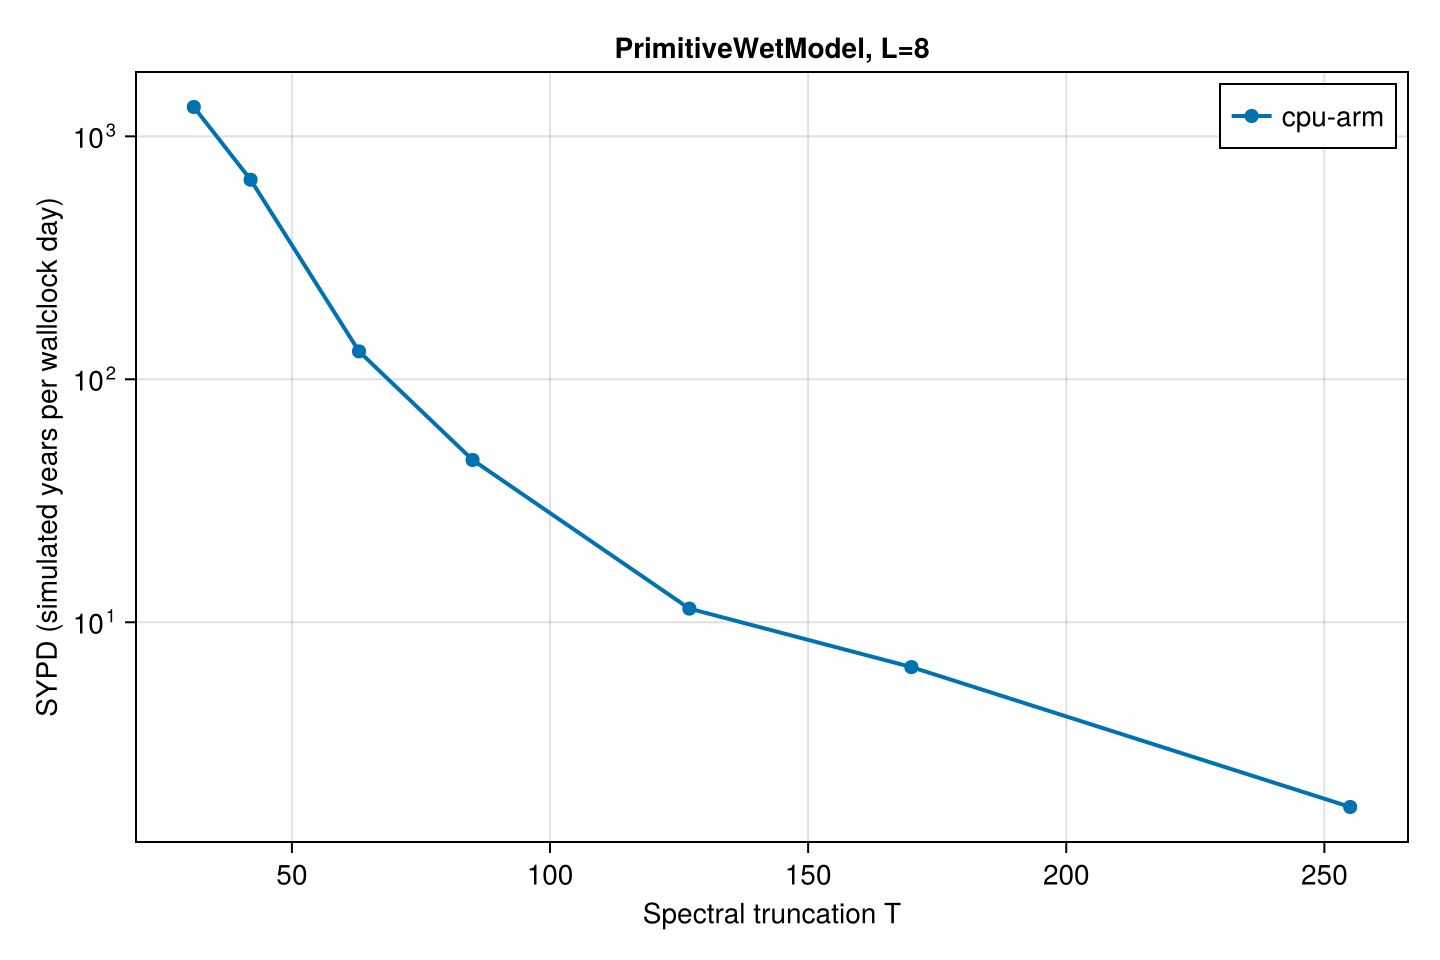
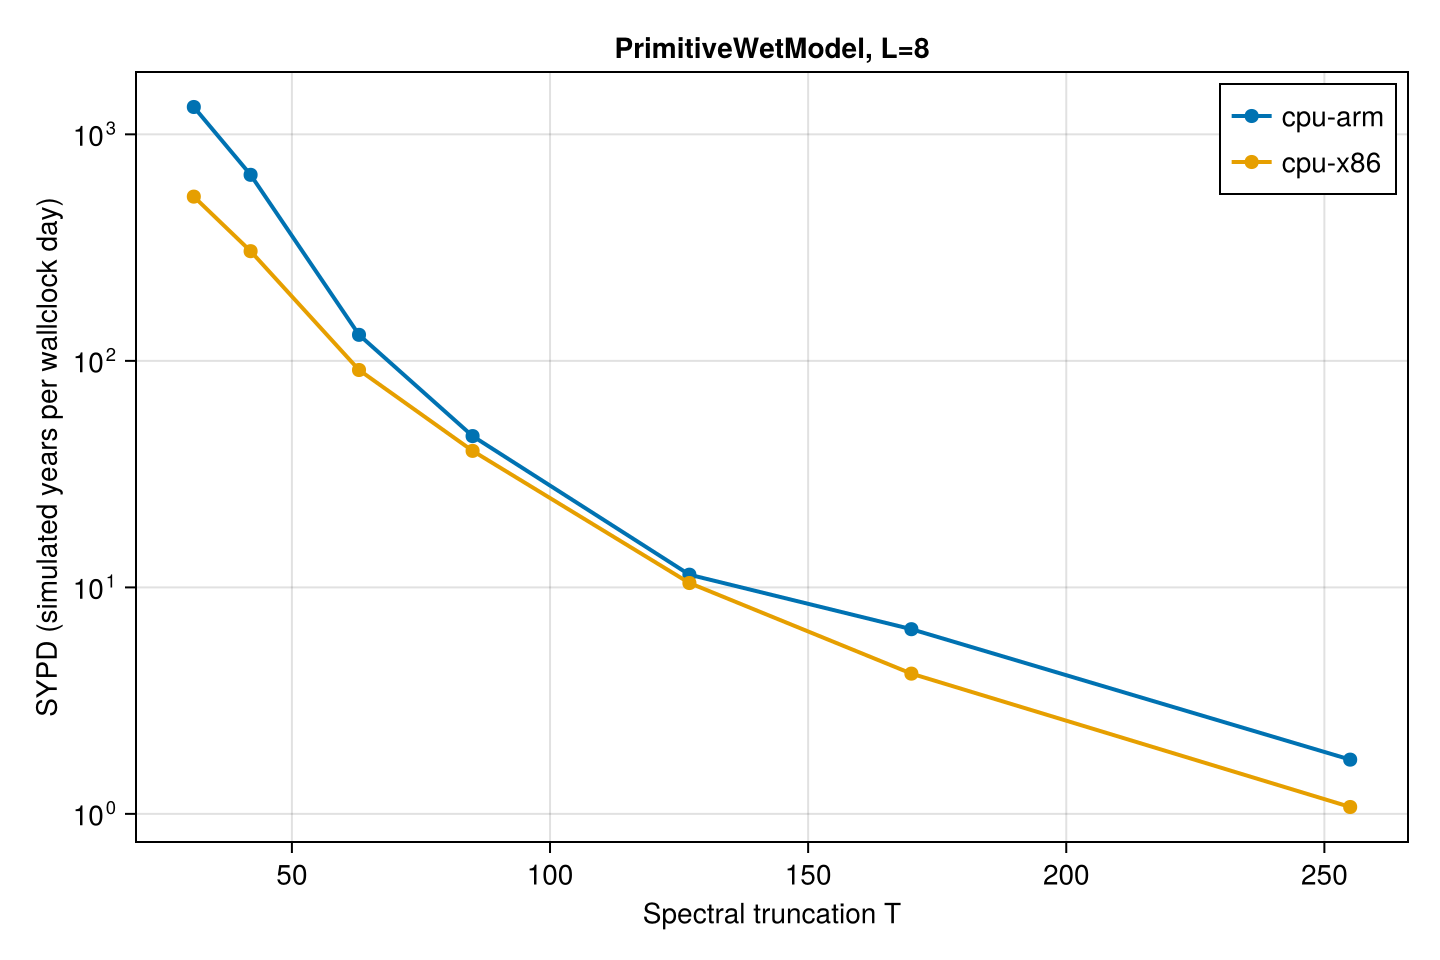
x86 results

diff --git a/SpeedyWeather/benchmark/README.md b/SpeedyWeather/benchmark/README.md
@@ -39,19 +39,19 @@ Simulated years per wallclock day (SYPD) for the `PrimitiveWetModel` resolution 
 
 ![PrimitiveWet L=16 across architectures](assets/benchmark_primitivewet_L16.png)
 
-| T | L | cpu-arm |
-| - | - | - |
-| 31 | 8 | 1321 |
-| 42 | 8 | 663 |
-| 63 | 8 | 130 |
-| 85 | 8 | 47 |
-| 85 | 16 | 38 |
-| 127 | 8 | 11 |
-| 127 | 16 | 9 |
-| 170 | 8 | 7 |
-| 170 | 16 | 4 |
-| 255 | 8 | 2 |
-| 255 | 16 | 1 |
+| T | L | cpu-arm | cpu-x86 |
+| - | - | - | - |
+| 31 | 8 | 1321 | 531 |
+| 42 | 8 | 663 | 305 |
+| 63 | 8 | 130 | 91 |
+| 85 | 8 | 47 | 40 |
+| 85 | 16 | 38 | 14 |
+| 127 | 8 | 11 | 10 |
+| 127 | 16 | 9 | 5 |
+| 170 | 8 | 7 | 4 |
+| 170 | 16 | 4 | 2 |
+| 255 | 8 | 2 | 1 |
+| 255 | 16 | 1 | 1 |
 
 ## Architecture: `cpu-arm`
 
@@ -173,4 +173,128 @@ Threads: 1 default, 0 interactive, 1 GC (on 4 virtual cores)
 | temperature_tendency! | 312.334 μs| 381.95 KiB| 1027 |
 | humidity_tendency! | 288.083 μs| 380.59 KiB| 1017 |
 | bernoulli_potential! | 99.166 μs| 510.22 KiB| 345 |
+
+## Architecture: `cpu-x86`
+
+Created for SpeedyWeather.jl v0.20.1+DEV on Fri, 22 May 2026 15:41:35.
+
+### Machine details
+
+```julia
+julia> versioninfo()
+Julia Version 1.12.2
+Commit ca9b6662be4 (2025-11-20 16:25 UTC)
+Build Info:
+  Official https://julialang.org release
+Platform Info:
+  OS: Linux (x86_64-linux-gnu)
+  CPU: 128 × AMD EPYC 9354 32-Core Processor
+  WORD_SIZE: 64
+  LLVM: libLLVM-18.1.7 (ORCJIT, znver4)
+  GC: Built with stock GC
+Threads: 1 default, 1 interactive, 1 GC (on 128 virtual cores)
+Environment:
+  LD_LIBRARY_PATH = /usr/local/lib:/usr/local/lib:
+```
+
+
+### Models, default setups
+
+| Model | T | L | Physics | Δt | SYPD | Memory|
+| - | - | - | - | - | - | - |
+| BarotropicModel | 31 | 1 | false | 2400 | 19080 | 688.32 KB |
+| ShallowWaterModel | 31 | 1 | false | 2400 | 13005 | 822.84 KB |
+| PrimitiveDryModel | 31 | 8 | true | 2400 | 722 | 4.16 MB |
+| PrimitiveWetModel | 31 | 8 | true | 2400 | 703 | 4.84 MB |
+
+### Shallow water model, resolution
+
+| Model | T | L | Rings | Δt | SYPD | Memory|
+| - | - | - | - | - | - | - |
+| ShallowWaterModel | 31 | 1 | 48 | 2400 | 12672 | 822.84 KB |
+| ShallowWaterModel | 42 | 1 | 64 | 1800 | 5832 | 1.44 MB |
+| ShallowWaterModel | 63 | 1 | 96 | 1200 | 1766 | 3.25 MB |
+| ShallowWaterModel | 85 | 1 | 128 | 900 | 723 | 5.94 MB |
+| ShallowWaterModel | 127 | 1 | 192 | 600 | 198 | 14.14 MB |
+| ShallowWaterModel | 170 | 1 | 256 | 450 | 72 | 26.86 MB |
+| ShallowWaterModel | 255 | 1 | 384 | 300 | 17 | 68.30 MB |
+
+### Primitive wet model, resolution
+
+| Model | T | L | Rings | Δt | SYPD | Memory|
+| - | - | - | - | - | - | - |
+| PrimitiveWetModel | 31 | 8 | 48 | 2400 | 531 | 4.84 MB |
+| PrimitiveWetModel | 42 | 8 | 64 | 1800 | 305 | 8.18 MB |
+| PrimitiveWetModel | 63 | 8 | 96 | 1200 | 91 | 17.42 MB |
+| PrimitiveWetModel | 85 | 8 | 128 | 900 | 40 | 30.35 MB |
+| PrimitiveWetModel | 127 | 8 | 192 | 600 | 10 | 67.03 MB |
+| PrimitiveWetModel | 170 | 8 | 256 | 450 | 4 | 119.25 MB |
+| PrimitiveWetModel | 255 | 8 | 384 | 300 | 1 | 272.27 MB |
+| PrimitiveWetModel | 85 | 16 | 128 | 900 | 14 | 51.65 MB |
+| PrimitiveWetModel | 127 | 16 | 192 | 600 | 5 | 113.22 MB |
+| PrimitiveWetModel | 170 | 16 | 256 | 450 | 2 | 200.00 MB |
+| PrimitiveWetModel | 255 | 16 | 384 | 300 | 1 | 450.63 MB |
+
+### Primitive Equation, Float32 vs Float64
+
+| Model | NF | T | L | Δt | SYPD | Memory|
+| - | - | - | - | - | - | - |
+| PrimitiveWetModel | Float32 | 31 | 8 | 2400 | 736 | 4.84 MB |
+| PrimitiveWetModel | Float64 | 31 | 8 | 2400 | 657 | 9.00 MB |
+
+### Grids
+
+| Model | T | L | Grid | Rings | Δt | SYPD | Memory|
+| - | - | - | - | - | - | - | - |
+| PrimitiveWetModel | 63 | 8 | FullGaussianGrid | 96 | 1200 | 71 | 25.36 MB |
+| PrimitiveWetModel | 63 | 8 | FullClenshawGrid | 95 | 1200 | 66 | 25.14 MB |
+| PrimitiveWetModel | 63 | 8 | OctahedralGaussianGrid | 96 | 1200 | 93 | 17.42 MB |
+| PrimitiveWetModel | 63 | 8 | OctahedralClenshawGrid | 95 | 1200 | 88 | 17.18 MB |
+| PrimitiveWetModel | 63 | 8 | HEALPixGrid | 95 | 1200 | 59 | 12.73 MB |
+| PrimitiveWetModel | 63 | 8 | OctaHEALPixGrid | 95 | 1200 | 98 | 15.50 MB |
+
+### Number of vertical layers
+
+| Model | T | L | Δt | SYPD | Memory|
+| - | - | - | - | - | - |
+| PrimitiveWetModel | 31 | 4 | 2400 | 1162 | 3.11 MB |
+| PrimitiveWetModel | 31 | 8 | 2400 | 731 | 4.84 MB |
+| PrimitiveWetModel | 31 | 12 | 2400 | 510 | 6.58 MB |
+| PrimitiveWetModel | 31 | 16 | 2400 | 203 | 8.33 MB |
+
+### PrimitiveDryModel: Physics or dynamics only
+
+| Model | T | L | Dynamics | Physics | Δt | SYPD | Memory|
+| - | - | - | - | - | - | - | - |
+| PrimitiveDryModel | 31 | 8 | true | true | 2400 | 1214 | 4.16 MB |
+| PrimitiveDryModel | 31 | 8 | true | false | 2400 | 1905 | 4.16 MB |
+| PrimitiveDryModel | 31 | 8 | false | true | 2400 | 1625 | 4.16 MB |
+
+### PrimitiveWetModel: Physics or dynamics only
+
+| Model | T | L | Dynamics | Physics | Δt | SYPD | Memory|
+| - | - | - | - | - | - | - | - |
+| PrimitiveWetModel | 31 | 8 | true | true | 2400 | 738 | 4.84 MB |
+| PrimitiveWetModel | 31 | 8 | true | false | 2400 | 1338 | 4.84 MB |
+| PrimitiveWetModel | 31 | 8 | false | true | 2400 | 1024 | 4.84 MB |
+
+### Individual dynamics functions
+
+
+#### PrimitiveWetModel | Float32 | T31 L8 | OctahedralGaussianGrid | 48 Rings
+
+| Function | Time | Memory | Allocations |
+| - | - | - | - |
+| pressure_gradient_flux! | 84.206 μs| 100.30 KiB| 789 |
+| linear_virtual_temperature! | 3.604 μs| 0 bytes| 0 |
+| geopotential! | 15.162 μs| 5.51 KiB| 22 |
+| vertical_integration! | 14.702 μs| 0 bytes| 0 |
+| surface_pressure_tendency! | 27.591 μs| 24.66 KiB| 288 |
+| vertical_velocity! | 90.576 μs| 346.84 KiB| 12 |
+| linear_pressure_gradient! | 3.286 μs| 0 bytes| 0 |
+| vertical_advection! | 295.173 μs| 8.69 KiB| 96 |
+| vordiv_tendencies! | 488.233 μs| 246.36 KiB| 721 |
+| temperature_tendency! | 620.212 μs| 361.98 KiB| 1024 |
+| humidity_tendency! | 589.686 μs| 360.62 KiB| 1014 |
+| bernoulli_potential! | 209.745 μs| 416.55 KiB| 340 |
 